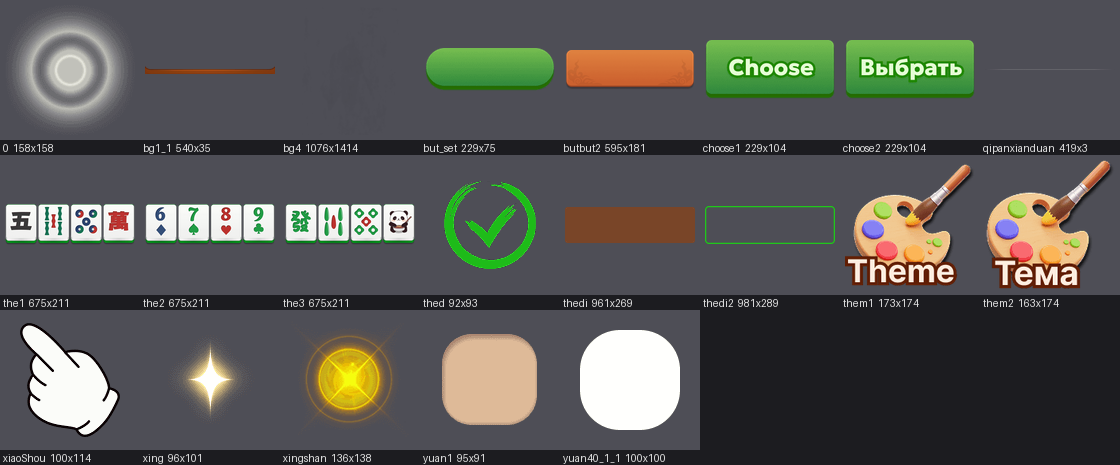
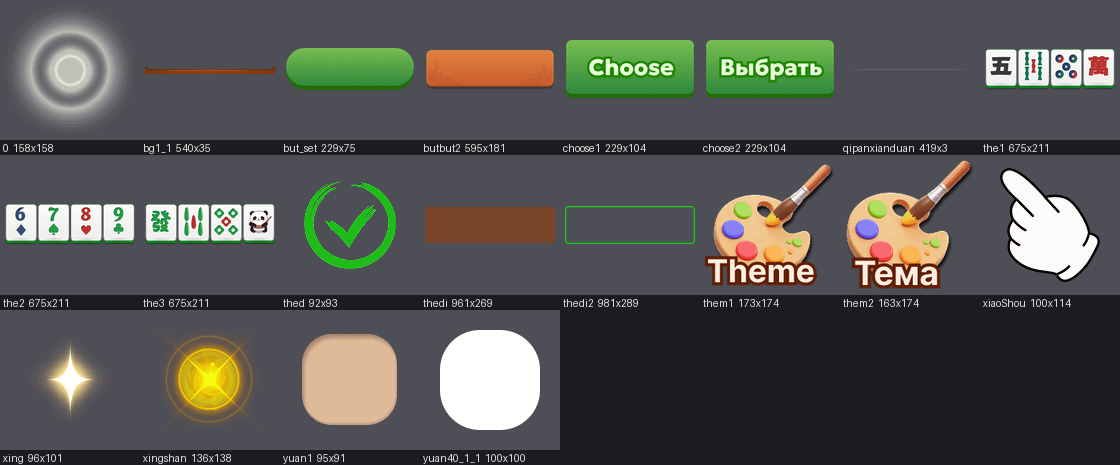
Dialogs without the header, as in the mockups
The orange header is gone from every dialog: the title sits inside the cream panel in brown uppercase, the close button in the panel corner. Settings uses her full panel with the dashed divider. Screenshots and the brief refreshed.

diff --git a/brief.html b/brief.html
@@ -53,15 +53,6 @@
 <h2>Главное, по порядку</h2>
 
 <div class="card item">
-  <div><img src="brief/rank_main_dialog_top.png" alt="dialog_top"><p class="muted">так сейчас</p></div>
-  <div>
-    <div><span class="name">dialog_top.png</span><span class="size">131x114</span></div>
-    <p>Шапка окна. Полоса с закруглением сверху, на ней заголовок окна. В твоих мокапах она оранжевая.</p>
-    <p class="muted">Где видно: все окна: настройки, подсказка, таблица рекордов, смена аватара, победа.</p>
-    <p class='warn'>Тянется по бокам: середина должна быть ровной, узор только слева и справа в пределах 60 px. Схема в разделе про рамки.</p>
-  </div>
-</div>
-<div class="card item">
   <div><img src="brief/img_xing.png" alt="xing"><p class="muted">так сейчас</p></div>
   <div>
     <div><span class="name">xing.png</span><span class="size">96x101</span></div>
@@ -121,12 +112,6 @@
 а середину тянет. Поэтому рисовать надо <b>ровно в размер из листа</b>, весь узор держать в углах и по
 краям, а середину оставлять ровной заливкой. На схемах красным показано, что именно растянется.</p>
 
-<div class="card">
-  <div><span class="name">dialog_top.png</span><span class="size">131x114</span>
-  <span class="muted"> не тянется: 60 слева, 60 справа px</span></div>
-  <p>Шапка окна. Полоса с закруглением сверху, на ней заголовок окна. В твоих мокапах она оранжевая.</p>
-  <img src="brief/rank_main_dialog_top_9slice.png" alt="dialog_top зоны растяжения">
-</div>
 <div class="card">
   <div><span class="name">rankdi.png</span><span class="size">102x62</span>
   <span class="muted"> не тянется: 50 слева, 50 справа, 30 сверху, 30 снизу px</span></div>
@@ -193,7 +178,7 @@
 <tr><td class="mono">0.png</td><td class="mono">158x158</td><td>белое свечение под выделенной плиткой</td><td><img src="brief/img_0.png" style="max-width:140px" alt=""></td></tr><tr><td class="mono">yuan1.png</td><td class="mono">95x91</td><td>бежевая плашка-подложка</td><td><img src="brief/img_yuan1.png" style="max-width:140px" alt=""></td></tr><tr><td class="mono">butbut2.png</td><td class="mono">595x181</td><td>оранжевая плашка, второе состояние большой кнопки</td><td><img src="brief/img_butbut2.png" style="max-width:140px" alt=""></td></tr><tr><td class="mono">red.png</td><td class="mono">60x67</td><td>розовая точка-уведомление</td><td><img src="brief/rank_main_red.png" style="max-width:140px" alt=""></td></tr><tr><td class="mono">sign3.png</td><td class="mono">49x78</td><td>знак вопроса</td><td><img src="brief/rank_main_sign3.png" style="max-width:140px" alt=""></td></tr><tr><td class="mono">suo.png</td><td class="mono">49x39</td><td>ключик</td><td><img src="brief/rank_main_suo.png" style="max-width:140px" alt=""></td></tr><tr><td class="mono">progressimg1.png</td><td class="mono">260x80</td><td>белая пилюля под полосу прогресса</td><td><img src="brief/rank_main_progressimg1.png" style="max-width:140px" alt=""></td></tr><tr><td class="mono">yuan40_2_1.png</td><td class="mono">100x66</td><td>белая плашка с плоским низом</td><td><img src="brief/rank_main_yuan40_2_1.png" style="max-width:140px" alt=""></td></tr><tr><td class="mono">yuan40_2_12.png</td><td class="mono">100x66</td><td>белая плашка с плоским низом</td><td><img src="brief/rank_main_yuan40_2_12.png" style="max-width:140px" alt=""></td></tr><tr><td class="mono">yuan501_12.png</td><td class="mono">120x120</td><td>белая плашка</td><td><img src="brief/rank_main_yuan501_12.png" style="max-width:140px" alt=""></td></tr><tr><td class="mono">yuan502_1.png</td><td class="mono">120x120</td><td>белая плашка</td><td><img src="brief/rank_main_yuan502_1.png" style="max-width:140px" alt=""></td></tr><tr><td class="mono">yuan502_12.png</td><td class="mono">120x120</td><td>белая плашка</td><td><img src="brief/rank_main_yuan502_12.png" style="max-width:140px" alt=""></td></tr><tr><td class="mono">shengjiduanwei.png</td><td class="mono">246x246</td><td>сияние при повышении ранга</td><td><img src="brief/rank_guang_shengjiduanwei.png" style="max-width:140px" alt=""></td></tr></table>
 <h2>Рисовать не надо</h2>
 <table><tr><th>что</th><th>почему</th></tr>
-<tr><td>окно «Тема» целиком</td><td>the1, the2, the3, them1, them2, thed, thedi, thedi2, choose1, choose2 - кнопку убрали, набор плиток один</td></tr><tr><td>третий набор плиток</td><td>60 граней «Милый» - набор убран из игры</td></tr><tr><td>bg1_1</td><td>кромка полки, в игре выключена</td></tr><tr><td>but_set, bg_addGame, tou1, sign4</td><td>кнопка «Вид» скрыта вместе со своей строкой; остальные три заняты твоими тумблером и иконками настроек</td></tr><tr><td>pai_di, pai_di2, qipandi1</td><td>почти прозрачные подложки под плиткой, их не видно</td></tr></table>
+<tr><td>окно «Тема» целиком</td><td>the1, the2, the3, them1, them2, thed, thedi, thedi2, choose1, choose2 - кнопку убрали, набор плиток один</td></tr><tr><td>третий набор плиток</td><td>60 граней «Милый» - набор убран из игры</td></tr><tr><td>bg1_1</td><td>кромка полки, в игре выключена</td></tr><tr><td>шапка окна dialog_top</td><td>окна теперь без шапки, как в твоих мокапах: заголовок внутри панели</td></tr><tr><td>but_set, bg_addGame, tou1, sign4</td><td>кнопка «Вид» скрыта вместе со своей строкой; остальные три заняты твоими тумблером и иконками настроек</td></tr><tr><td>pai_di, pai_di2, qipandi1</td><td>почти прозрачные подложки под плиткой, их не видно</td></tr></table>
 
 <h2>Из присланного не встанет, и почему</h2>
 <table><tr><th>файл</th><th>причина</th></tr>

diff --git a/index.html b/index.html
@@ -33,7 +33,7 @@
 
 <div class="card">
 <h3 style="margin-top:0">Коротко</h3>
-<p>Картинок в игре 428. Наших <b>360</b>, чужих <b>68</b>.</p>
+<p>Картинок в игре 428. Наших <b>361</b>, чужих <b>67</b>.</p>
 <div class="bar"><i style="width:84%"></i></div>
 <p class="muted">Отдельных файлов (атласы, звук): наших 10 из 84. Один файл это пачка картинок,
 поэтому проценты по файлам и по картинкам разные.</p>
@@ -86,7 +86,7 @@
 заменены, чтобы чужих пикселей не осталось.</p>
 
 <h2>Что ещё осталось чужим в интерфейсе</h2>
-<p>21 картинок. Из них десять относятся к окну «Тема», которого больше нет, их
+<p>20 картинок. Из них десять относятся к окну «Тема», которого больше нет, их
 рисовать не надо. Заметные из оставшихся: подложка игрового поля, сетка на доске, звёзды за уровень,
 рука в обучении. Остальное мелочь.</p>
 <img src="sheets/img_left.png" alt="оставшиеся кадры интерфейса">
